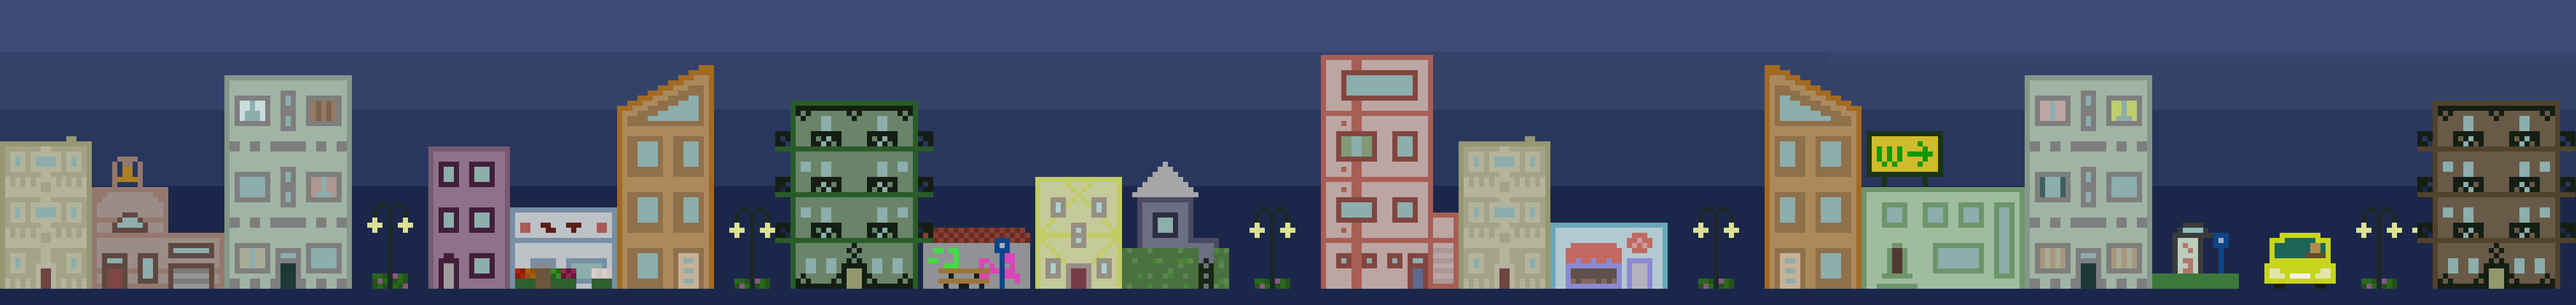
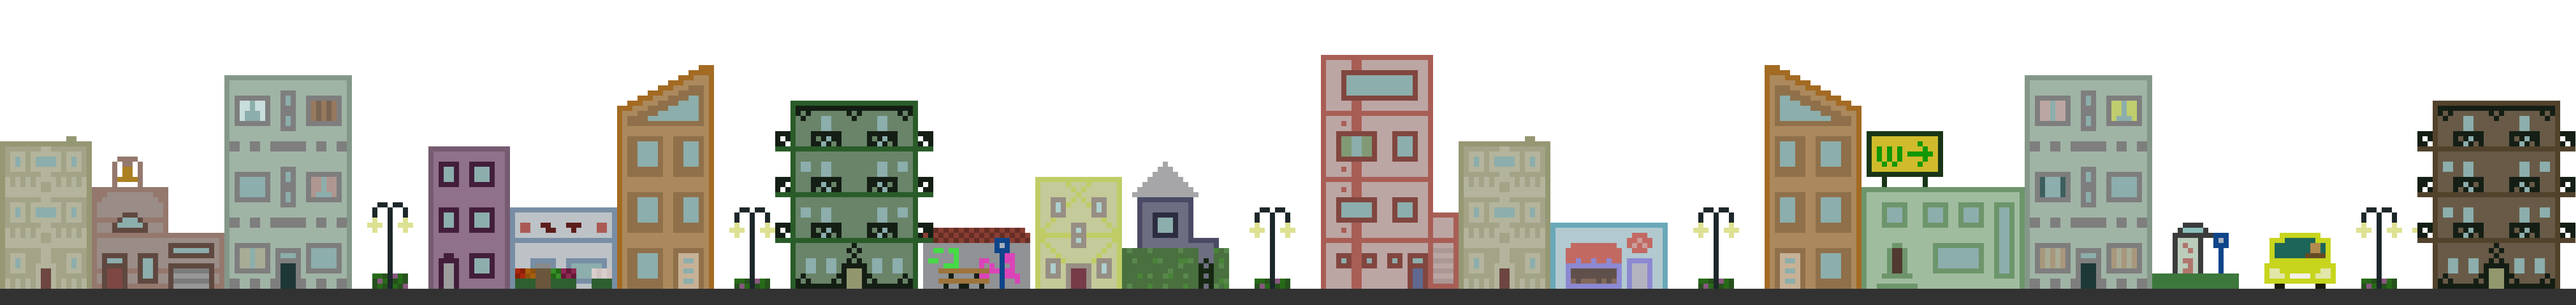
Pysch background

diff --git a/src/states/Game.js b/src/states/Game.js
@@ -11,15 +11,28 @@ export default class extends Phaser.State {
   init () {}
   preload () {}
 
+  setHighBackground () {
+    this.game.background_sky.loadTexture('background_sky_high', 0)
+    this.game.background.loadTexture('background_high', 0)
+    game.camera.flash(0x00ff00, 500);
+    game.time.events.loop(100, _ => {
+      this.game.background_sky.tint = Math.random() * 0xffffff;
+    }, this);
+  }
+
   create () {
     let game = this.game
 
-    this.background = this.game.add.tileSprite(0, 0, 800, 600, 'background')
-    this.background.fixedToCamera = true
+    this.game.background_sky = this.game.add.tileSprite(0, 0, 800, 600, 'background_sky')
+    this.game.background = this.game.add.tileSprite(0, 0, 800, 600, 'background')
+    this.game.background_sky.fixedToCamera = true
+    this.game.background.fixedToCamera = true
 
     game.physics.startSystem(Phaser.Physics.ARCADE)
     game.world.enableBody = true
     this.worldGroup = generateMap(game)
+
+    this.highStarted = false
 
     this.enemies = game.add.group()
     this.items = generateItems(game)
@@ -60,7 +73,8 @@ export default class extends Phaser.State {
     if (this.game.camera.x !== 0 &&
         this.player.body.velocity.x !== 0 &&
         this.game.camera.x !== MAP_WIDTH * 32 - this.game.width) {
-      this.background.tilePosition.x += (this.player.body.velocity.x > 0) ? -2 : 2
+      this.game.background_sky.tilePosition.x += (this.player.body.velocity.x > 0) ? -2 : 2
+      this.game.background.tilePosition.x += (this.player.body.velocity.x > 0) ? -2 : 2
     }
   }
 
@@ -94,6 +108,10 @@ export default class extends Phaser.State {
     )
 
     if (this.player.state.high === true) {
+      if (!this.highStarted) {
+        this.setHighBackground()
+        this.highStarted = true
+      }
       if (this.enemies.children.length === 0) {
         this.enemies = generateEnemies(this.game)
       }

diff --git a/src/states/Splash.js b/src/states/Splash.js
@@ -13,7 +13,11 @@ export default class extends Phaser.State {
     //
     // load your assets
     //
+    this.load.image('background_sky', 'assets/images/background_sky.png')
     this.load.image('background', 'assets/images/background.png')
+    this.load.image('background_sky_high', 'assets/images/background_sky_high.png')
+    this.load.image('background_high', 'assets/images/background_high.png')
+
     this.load.image('weed', 'assets/images/weed.png')
     this.load.image('home', 'assets/images/home.png')
     this.load.image('block_1', 'assets/images/block_1.png')

diff --git a/src/sprites/Player.js b/src/sprites/Player.js
@@ -54,7 +54,6 @@ export default class extends Phaser.Sprite {
   }
 
   smokeWeed (weed) {
-    this.game.camera.shake(0.05, 500)
     this.state.high = true
     weed.kill()
   }
